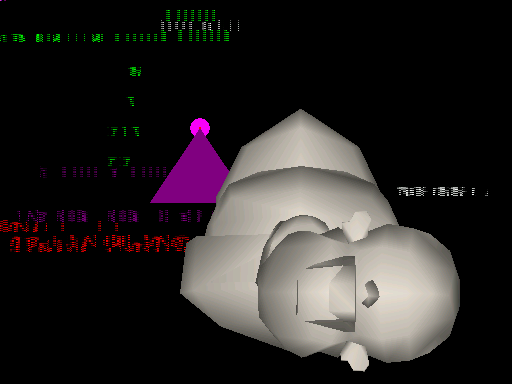
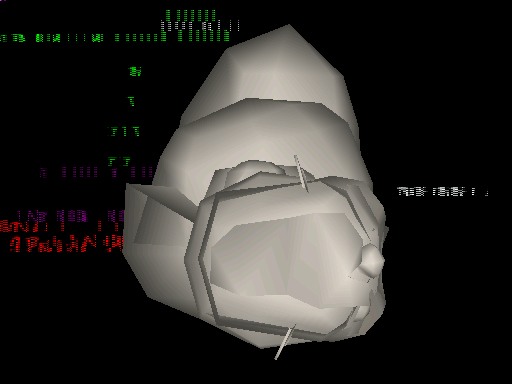
Mesh3D: centre on the real framebuffer, make the view axis a knob
Two separate problems were making the BABY mesh look wrong on screen.

Centring (verified): the ortho fit hardcoded a 640x480 screen -- centre
320,240 and a 280px extent -- but the Voodoo framebuffer is 512x384. That is
what pushed the model right and low in the previous screenshot. Now takes the
real dimensions from g_voodoo and centres on them.

View axis (a knob, not a proof): the old projection hardcoded model X,Y to
screen X,Y, which is the model's *profile*. CARNEVIL_MESH3D_VIEW now takes
three letters (x/y/z, uppercase = negated) naming which model axis drives
screen-X, screen-Y and depth; default "zyx" looks down X with Y up. The
Lambert shade follows the mapping, so the lighting stays sensible under any
view.

Note the default is a judgement call, not a derivation. The mesh is not
vertex-symmetric about any axis (best mirror match 23.8% at tol 0.05, likely a
posed frame rather than a bind pose) and face winding splits near-evenly
(876/793), so neither symmetry nor winding identifies the facing axis. Use
CARNEVIL_MESH3D_VIEW=Zyx to mirror if it ever reads as the back.

The real fix remains routing the mesh through the game's own T&L
(sub_800CEFBC) and camera, which settles orientation, animation and per-surface
texturing together instead of one ortho knob at a time.

Changed region(s): [[0.2188, 0.0625, 0.9062, 0.9688]]

diff --git a/src/runtime/seattle_overrides.c b/src/runtime/seattle_overrides.c
@@ -2120,7 +2120,8 @@ RECOMP_FUNC void func_800CAE2C(uint8_t* rdram, recomp_context* ctx) {
     if (getenv("CARNEVIL_MESH3D")) {
         extern recomp_func_t* get_function(int32_t);
         static int ready = 0;
-        static float scale=1.f, cx=320.f, cy=240.f;
+        static float scale=1.f, cx=0.f, cy=0.f;
+        static float dmin=0.f, drange=1.f;
         const int vcount=942, fcount=1693, ccount=946;
         const uint32_t zmhdr = 512;                     /* thumbnail header */
         const uint32_t modbase = 0x00600000;            /* raw .ZM in RDRAM */
@@ -2128,6 +2129,36 @@ RECOMP_FUNC void func_800CAE2C(uint8_t* rdram, recomp_context* ctx) {
         const uint32_t cp = vp + (uint32_t)vcount*12;
         const uint32_t fp = cp + (uint32_t)ccount*12;
         const uint32_t xf = 0x007B0000;                 /* transformed verts */
+        const float scrw = g_voodoo.width  > 0 ? (float)g_voodoo.width  : 512.f;
+        const float scrh = g_voodoo.height > 0 ? (float)g_voodoo.height : 384.f;
+        /* Model-axis -> screen-axis mapping. CARNEVIL_MESH3D_VIEW takes three
+         * letters (x/y/z; uppercase = negated) naming which model axis drives
+         * screen-X, screen-Y and depth. Default "zyx": .ZM authors Y up with X
+         * as the facing axis, so looking down X is the front view -- the old
+         * hardcoded (x,y) was the *profile*, which is why the baby read as
+         * "lying on its side". Front vs back is a coin flip on a near-symmetric
+         * head (winding splits 876/793, mean normal x ~ 0), so if it faces away,
+         * use CARNEVIL_MESH3D_VIEW=Zyx to mirror.
+         * ponytail: an ortho knob, not a camera. The real fix is the game's own
+         * T&L (sub_800CEFBC) + camera, which also brings animation and texture. */
+        static int vax[3] = {2,1,0}, vsg[3] = {1,1,1};
+        static int view_parsed = 0;
+        if (!view_parsed) {
+            view_parsed = 1;
+            const char* vs = getenv("CARNEVIL_MESH3D_VIEW");
+            if (vs && vs[0] && vs[1] && vs[2]) {
+                for (int k=0;k<3;k++){
+                    char c = vs[k];
+                    vsg[k] = (c>='A' && c<='Z') ? -1 : 1;
+                    if (c>='A' && c<='Z') c = (char)(c + 32);
+                    vax[k] = (c=='x') ? 0 : (c=='y') ? 1 : 2;
+                }
+                fprintf(stderr,"[mesh3d] view=%s -> axes %d%d%d signs %d%d%d\n",
+                        vs, vax[0],vax[1],vax[2], vsg[0],vsg[1],vsg[2]);
+            }
+        }
+        /* mapped component k (0=screen X, 1=screen Y, 2=depth) of vertex i */
+        #define ZMC(_i,_k) (vsg[_k] * *(float*)(rdram + vp + (uint32_t)(_i)*12 + vax[_k]*4))
         if (!ready) {
             FILE* zf = fopen("extracted/files/BABY.ZM", "rb");
             if (zf) {
@@ -2136,36 +2167,34 @@ RECOMP_FUNC void func_800CAE2C(uint8_t* rdram, recomp_context* ctx) {
                 fclose(zf);
                 /* ponytail: all 942 verts are finite once the header offset is
                  * right; this stays as a cheap guard against a bad .ZM. */
-                float mnx=1e9f,mxx=-1e9f,mny=1e9f,mxy=-1e9f,mnz=1e9f,mxz=-1e9f;
+                float mnu=1e9f,mxu=-1e9f,mnv=1e9f,mxv=-1e9f,mnd=1e9f,mxd=-1e9f;
                 for (int i=0;i<vcount;i++){
-                    float x=*(float*)(rdram+vp+i*12+0), y=*(float*)(rdram+vp+i*12+4), z=*(float*)(rdram+vp+i*12+8);
-                    if (!(x>-1e4f&&x<1e4f) || !(y>-1e4f&&y<1e4f) || !(z>-1e4f&&z<1e4f)) continue;
-                    if(x<mnx)mnx=x; if(x>mxx)mxx=x; if(y<mny)mny=y; if(y>mxy)mxy=y; if(z<mnz)mnz=z; if(z>mxz)mxz=z;
+                    float u=ZMC(i,0), v=ZMC(i,1), dd=ZMC(i,2);
+                    if (!(u>-1e4f&&u<1e4f) || !(v>-1e4f&&v<1e4f) || !(dd>-1e4f&&dd<1e4f)) continue;
+                    if(u<mnu)mnu=u; if(u>mxu)mxu=u; if(v<mnv)mnv=v; if(v>mxv)mxv=v;
+                    if(dd<mnd)mnd=dd; if(dd>mxd)mxd=dd;
                 }
-                float w=mxx-mnx, h=mxy-mny, ext=(w>h?w:h); if(ext<1e-3f)ext=1.f;
-                scale = 280.f/ext;
-                cx = 320.f - 0.5f*(mnx+mxx)*scale;
-                cy = 240.f + 0.5f*(mny+mxy)*scale;   /* +: flip Y for screen */
-                fprintf(stderr,"[mesh3d] read %zu/%zu bytes; range x[%.1f,%.1f] y[%.1f,%.1f] z[%.1f,%.1f] scale=%.3f\n",
-                        n,need,mnx,mxx,mny,mxy,mnz,mxz,scale);
+                float w=mxu-mnu, h=mxv-mnv, ext=(w>h?w:h); if(ext<1e-3f)ext=1.f;
+                /* Fit to the real framebuffer (512x384), not a 640x480 guess --
+                 * centring on 320,240 is what pushed the model right and low. */
+                scale = (scrh - 48.f)/ext;
+                cx = scrw*0.5f - 0.5f*(mnu+mxu)*scale;
+                cy = scrh*0.5f + 0.5f*(mnv+mxv)*scale;   /* +: flip Y for screen */
+                dmin = mnd; drange = (mxd-mnd) < 1e-4f ? 1.f : (mxd-mnd);
+                fprintf(stderr,"[mesh3d] read %zu/%zu bytes; screen %.0fx%.0f; "
+                        "u[%.1f,%.1f] v[%.1f,%.1f] depth[%.1f,%.1f] scale=%.3f\n",
+                        n,need,scrw,scrh,mnu,mxu,mnv,mxv,mnd,mxd,scale);
                 ready = 1;
             } else { fprintf(stderr,"[mesh3d] fopen BABY.ZM failed\n"); ready = -1; }
         }
         if (ready == 1) {
             /* xf stride is 16B: screen x, screen y, W, Z (depth 0.1..0.9). */
-            float mnz=1e9f, mxz=-1e9f;
             for (int i=0;i<vcount;i++){
-                float z=*(float*)(rdram+vp+i*12+8);
-                if (z<mnz) mnz=z; if (z>mxz) mxz=z;
-            }
-            float zr = (mxz-mnz); if (zr<1e-4f) zr=1.f;
-            for (int i=0;i<vcount;i++){
-                float x=*(float*)(rdram+vp+i*12+0), y=*(float*)(rdram+vp+i*12+4),
-                      z=*(float*)(rdram+vp+i*12+8);
-                *(float*)(rdram+xf+i*16+0) = cx + x*scale;
-                *(float*)(rdram+xf+i*16+4) = cy - y*scale;
+                *(float*)(rdram+xf+i*16+0) = cx + ZMC(i,0)*scale;
+                *(float*)(rdram+xf+i*16+4) = cy - ZMC(i,1)*scale;
                 *(float*)(rdram+xf+i*16+8) = 1.0f;                    /* W (ortho) */
-                *(float*)(rdram+xf+i*16+12) = 0.1f + 0.8f*(mxz-z)/zr; /* Z, nearer = smaller */
+                /* nearer = smaller Z */
+                *(float*)(rdram+xf+i*16+12) = 0.1f + 0.8f*(1.f - (ZMC(i,2)-dmin)/drange);
             }
             /* Emit the real surface: one triangle per face record, indices from
              * +4/+6/+8, normals from +0xA/+0xC/+0xE (Lambert against a fixed
@@ -2199,8 +2228,10 @@ RECOMP_FUNC void func_800CAE2C(uint8_t* rdram, recomp_context* ctx) {
                         o[2]=1.0f;
                         o[3]=188.f; o[4]=205.f;                        /* S,T (W=1) */
                         o[5]=*(float*)(rdram+xf+vi[k]*16+12);          /* Z */
-                        /* Lambert: light from (0,0,1), normal z drives shade. */
-                        float nz = (ni[k]<ccount) ? *(float*)(rdram+cp+ni[k]*12+8) : 1.f;
+                        /* Lambert: light down the view axis, so the normal's
+                         * depth component drives the shade under any VIEW. */
+                        float nz = (ni[k]<ccount)
+                            ? vsg[2] * *(float*)(rdram+cp+ni[k]*12+vax[2]*4) : 1.f;
                         float l = 0.30f + 0.70f*(nz<0.f?-nz:nz);
                         if (l>1.f) l=1.f;
                         o[6]=235.f*l; o[7]=225.f*l; o[8]=215.f*l;
@@ -2216,6 +2247,7 @@ RECOMP_FUNC void func_800CAE2C(uint8_t* rdram, recomp_context* ctx) {
                     fprintf(stderr,"[mesh3d] surface: %d tris drawn, %d skipped\n",drawn,skipped);}
             }
         }
+        #undef ZMC
     }
     /* Camera update: call func_800CADD4 */
     {
